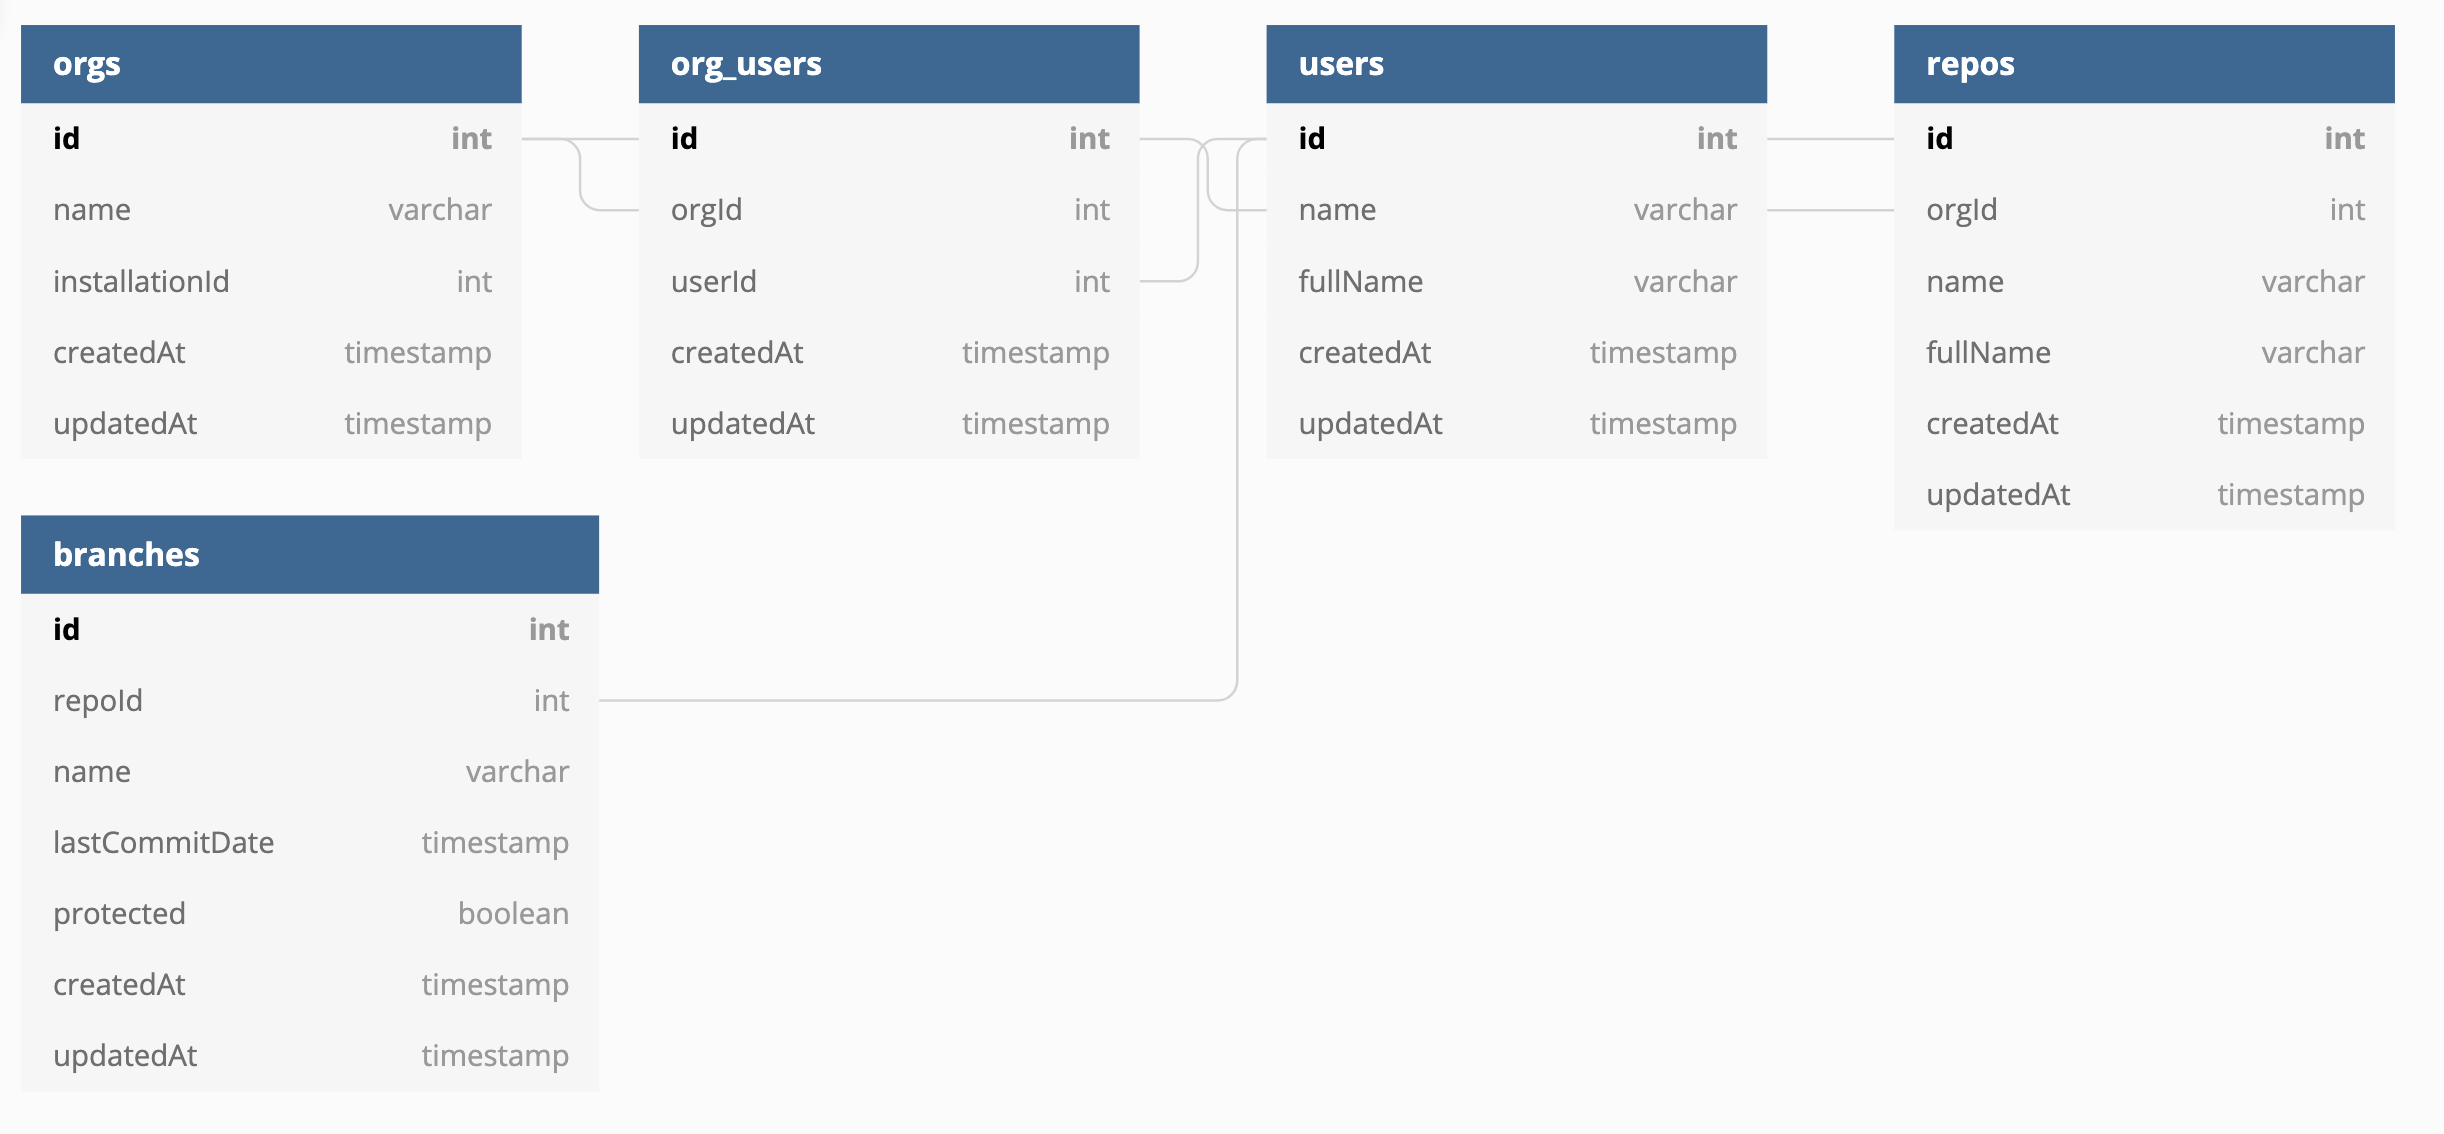
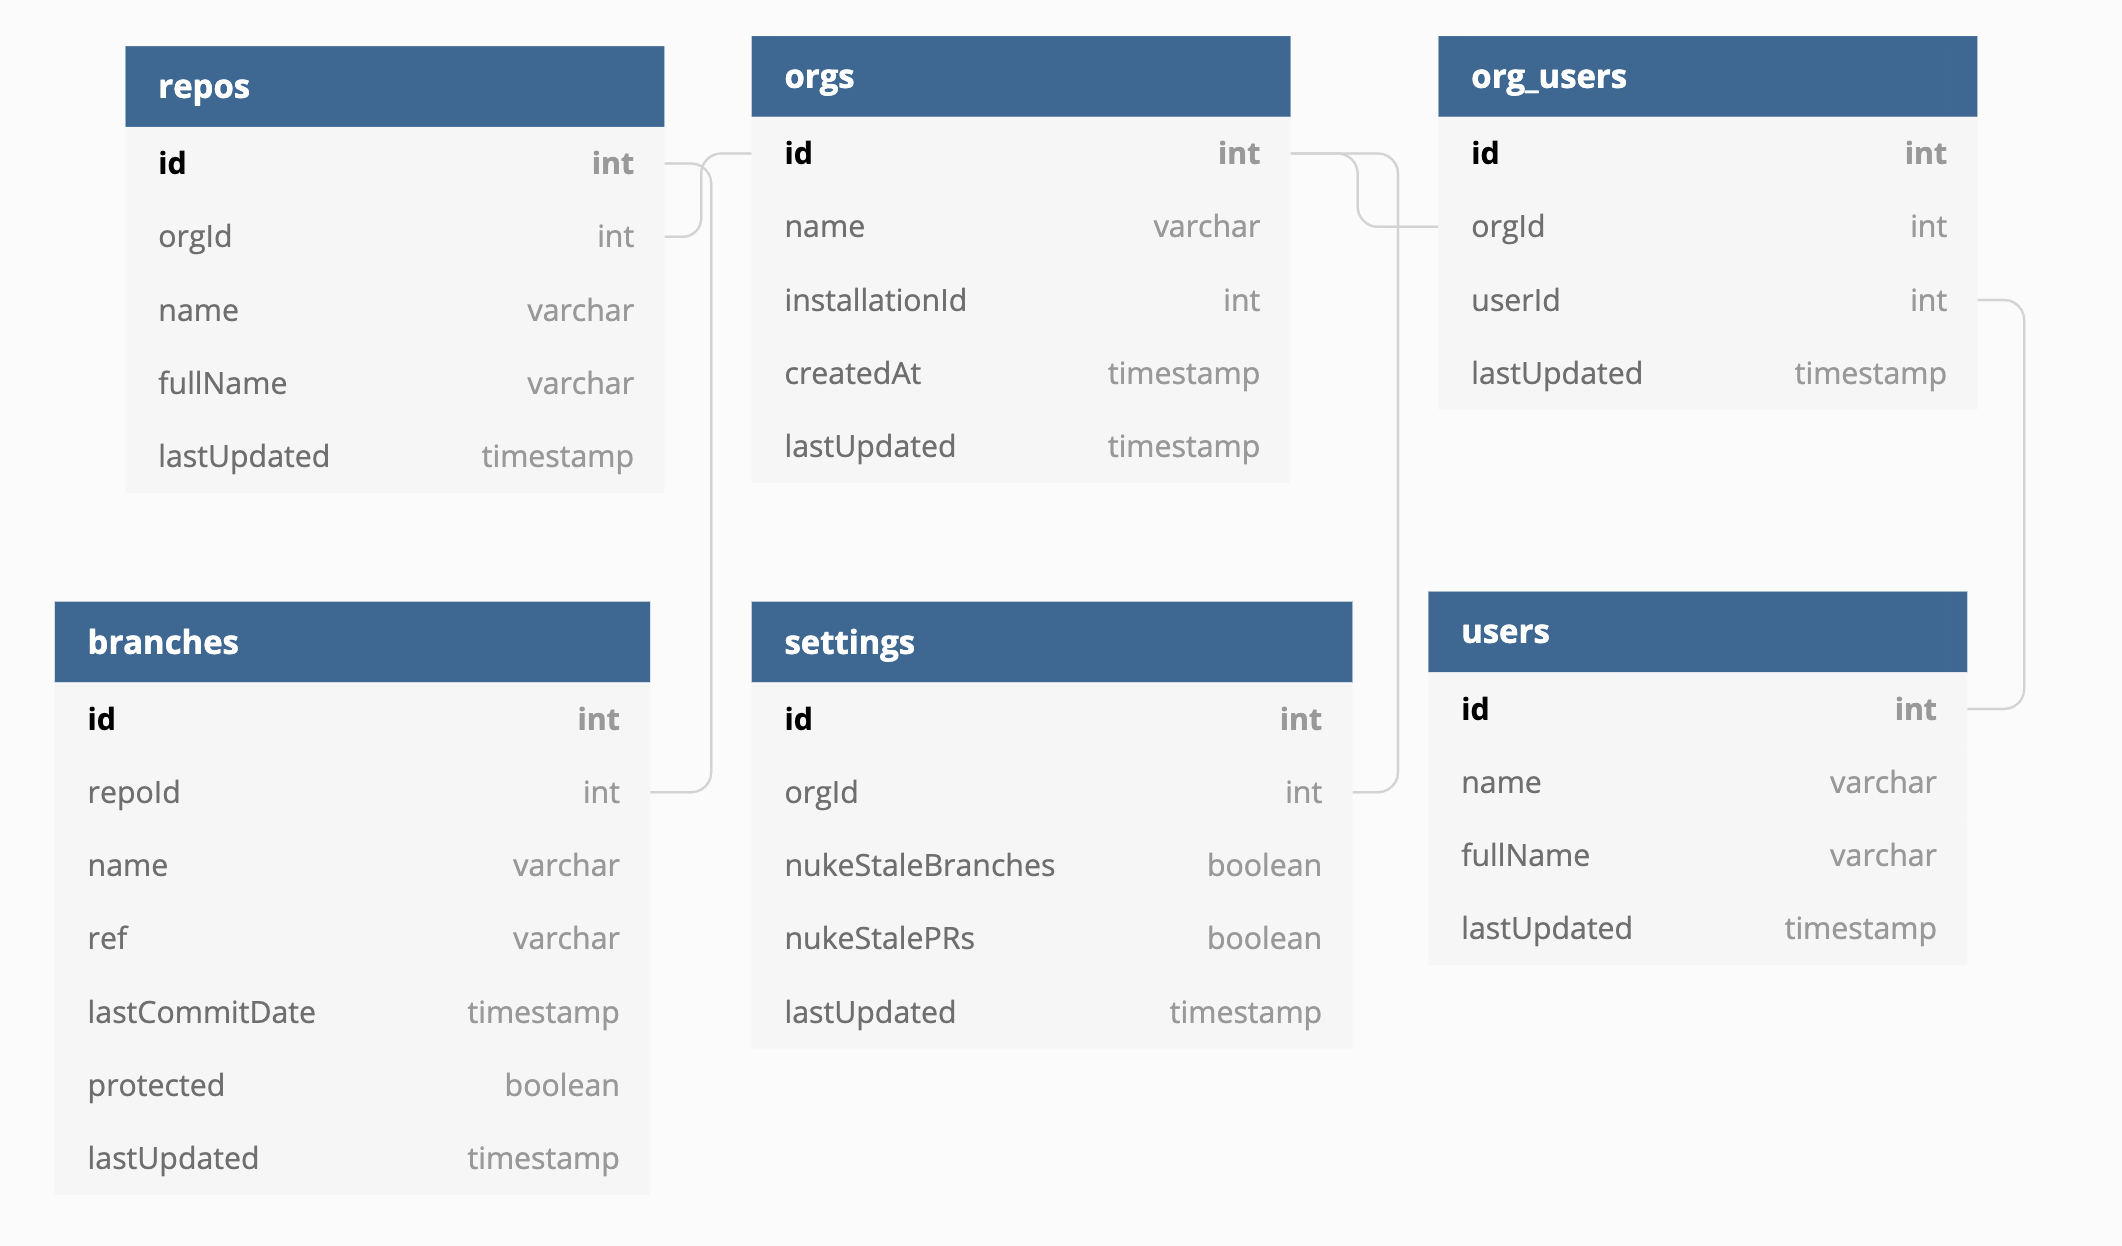
Added settings table
Also updated ER diagram to be a bit more accurate

diff --git a/migrations/20191125231900-create-settings.js b/migrations/20191125231900-create-settings.js
@@ -1,0 +1,41 @@
+"use strict";
+module.exports = {
+  up: (queryInterface, Sequelize) => {
+    return queryInterface.createTable("Settings", {
+      id: {
+        allowNull: false,
+        autoIncrement: false,
+        primaryKey: true,
+        type: Sequelize.INTEGER,
+        unique: true
+      },
+      orgId: {
+        allowNull: false,
+        type: Sequelize.INTEGER,
+        references: {
+          model: "Orgs",
+          key: "id"
+        }
+      },
+      nukeStaleBranches: {
+        allowNull: false,
+        type: Sequelize.BOOLEAN
+      },
+      nukeStalePRs: {
+        allowNull: false,
+        type: Sequelize.BOOLEAN
+      },
+      createdAt: {
+        allowNull: false,
+        type: Sequelize.DATE
+      },
+      updatedAt: {
+        allowNull: false,
+        type: Sequelize.DATE
+      }
+    });
+  },
+  down: (queryInterface, Sequelize) => {
+    return queryInterface.dropTable("Settings");
+  }
+};

diff --git a/seeders/20191125001145-demo-settings.js b/seeders/20191125001145-demo-settings.js
@@ -1,0 +1,32 @@
+"use strict";
+
+module.exports = {
+  up: (queryInterface, Sequelize) => {
+    return queryInterface.bulkInsert(
+      "Settings",
+      [
+        {
+          id: 42,
+          orgId: 11233903,
+          nukeStaleBranches: false,
+          nukeStalePRs: false,
+          createdAt: new Date(),
+          updatedAt: new Date()
+        },
+        {
+          id: 43,
+          orgId: 11233903,
+          nukeStaleBranches: false,
+          nukeStalePRs: false,
+          createdAt: new Date(),
+          updatedAt: new Date()
+        }
+      ],
+      {}
+    );
+  },
+
+  down: (queryInterface, Sequelize) => {
+    return queryInterface.bulkDelete("Settings", null, {});
+  }
+};

diff --git a/models/settings.js b/models/settings.js
@@ -1,0 +1,16 @@
+"use strict";
+module.exports = (sequelize, DataTypes) => {
+  const Setting = sequelize.define(
+    "Setting",
+    {
+      orgId: DataTypes.INTEGER,
+      nukeStaleBranches: DataTypes.BOOLEAN,
+      nukeStalePRs: DataTypes.BOOLEAN
+    },
+    {}
+  );
+  Setting.associate = function(models) {
+    Setting.belongsTo(models.Org, { foreignKey: "id", as: "org" });
+  };
+  return Setting;
+};
